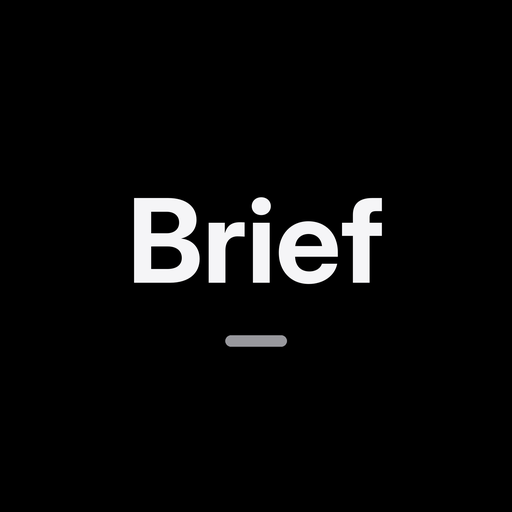
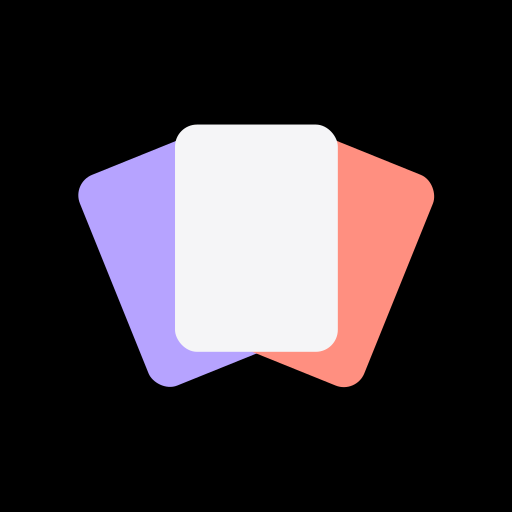
Nouvelle icône Carte Blanche : éventail de cartes
Icônes any et maskable (zone sûre Android), apple-touch-icon, favicon 32 px, sources SVG ; cache v6 pour la mise à jour.

Claude-Session: https://claude.ai/code/session_012YpRpygQJ853caX7xq2Cey

Changed region(s): [[0.1562, 0.2188, 0.875, 0.7812]]

diff --git a/sw.js b/sw.js
@@ -1,6 +1,6 @@
 /* Carte Blanche : cache de l'app pour un usage hors ligne. Les données (api.github.com) ne passent pas par ce cache. */
-const CACHE = "brief-app-v4";
-const SHELL = ["./", "index.html", "manifest.webmanifest", "icons/icon-192.png", "icons/icon-512.png", "icons/icon-maskable-192.png", "icons/icon-maskable-512.png"];
+const CACHE = "brief-app-v5";
+const SHELL = ["./", "index.html", "manifest.webmanifest", "icons/icon-192.png", "icons/icon-512.png", "icons/icon-maskable-192.png", "icons/icon-maskable-512.png", "icons/apple-touch-icon.png", "icons/favicon-32.png"];
 self.addEventListener("install", (e) => {
   e.waitUntil(caches.open(CACHE).then((c) => c.addAll(SHELL)).then(() => self.skipWaiting()));
 });

diff --git a/index.html b/index.html
@@ -8,8 +8,9 @@
 <meta name="theme-color" content="#000000" media="(prefers-color-scheme: dark)">
 <title>Carte Blanche</title>
 <link rel="manifest" href="manifest.webmanifest">
-<link rel="icon" href="icons/icon-192.png">
-<link rel="apple-touch-icon" href="icons/icon-192.png">
+<link rel="icon" href="icons/favicon-32.png" sizes="32x32">
+<link rel="icon" href="icons/icon-192.png" sizes="192x192">
+<link rel="apple-touch-icon" href="icons/apple-touch-icon.png">
 <style>
 /* Mise en page : une colonne centrée (1040px max), barre segmentée collante, cartes claires posées sur un gris perle. Noir, gris et blanc uniquement : la hiérarchie vient de la typographie et des aplats inversés. */
 :root{

diff --git a/README.md b/README.md
@@ -11,5 +11,5 @@ Le nom technique du dépôt et l'adresse restent `brief-vendredi-app` : les chan
 | Fichier | Rôle |
 |---|---|
 | `index.html` | L'app : top 3, onglets Streaming, Cinéma (avec vue « Par salle »), Sorties, Sport, Catalogue par genre, À voir, Mes avis ; envoi des avis ; réglages |
-| `manifest.webmanifest`, `icons/` | Installation sur l'écran d'accueil |
+| `manifest.webmanifest`, `icons/` | Installation sur l'écran d'accueil ; icône « éventail de cartes » (19/11/2026), sources SVG dans `icons/src/` |
 | `sw.js` | Fonctionnement hors ligne (cache de l'app) |
